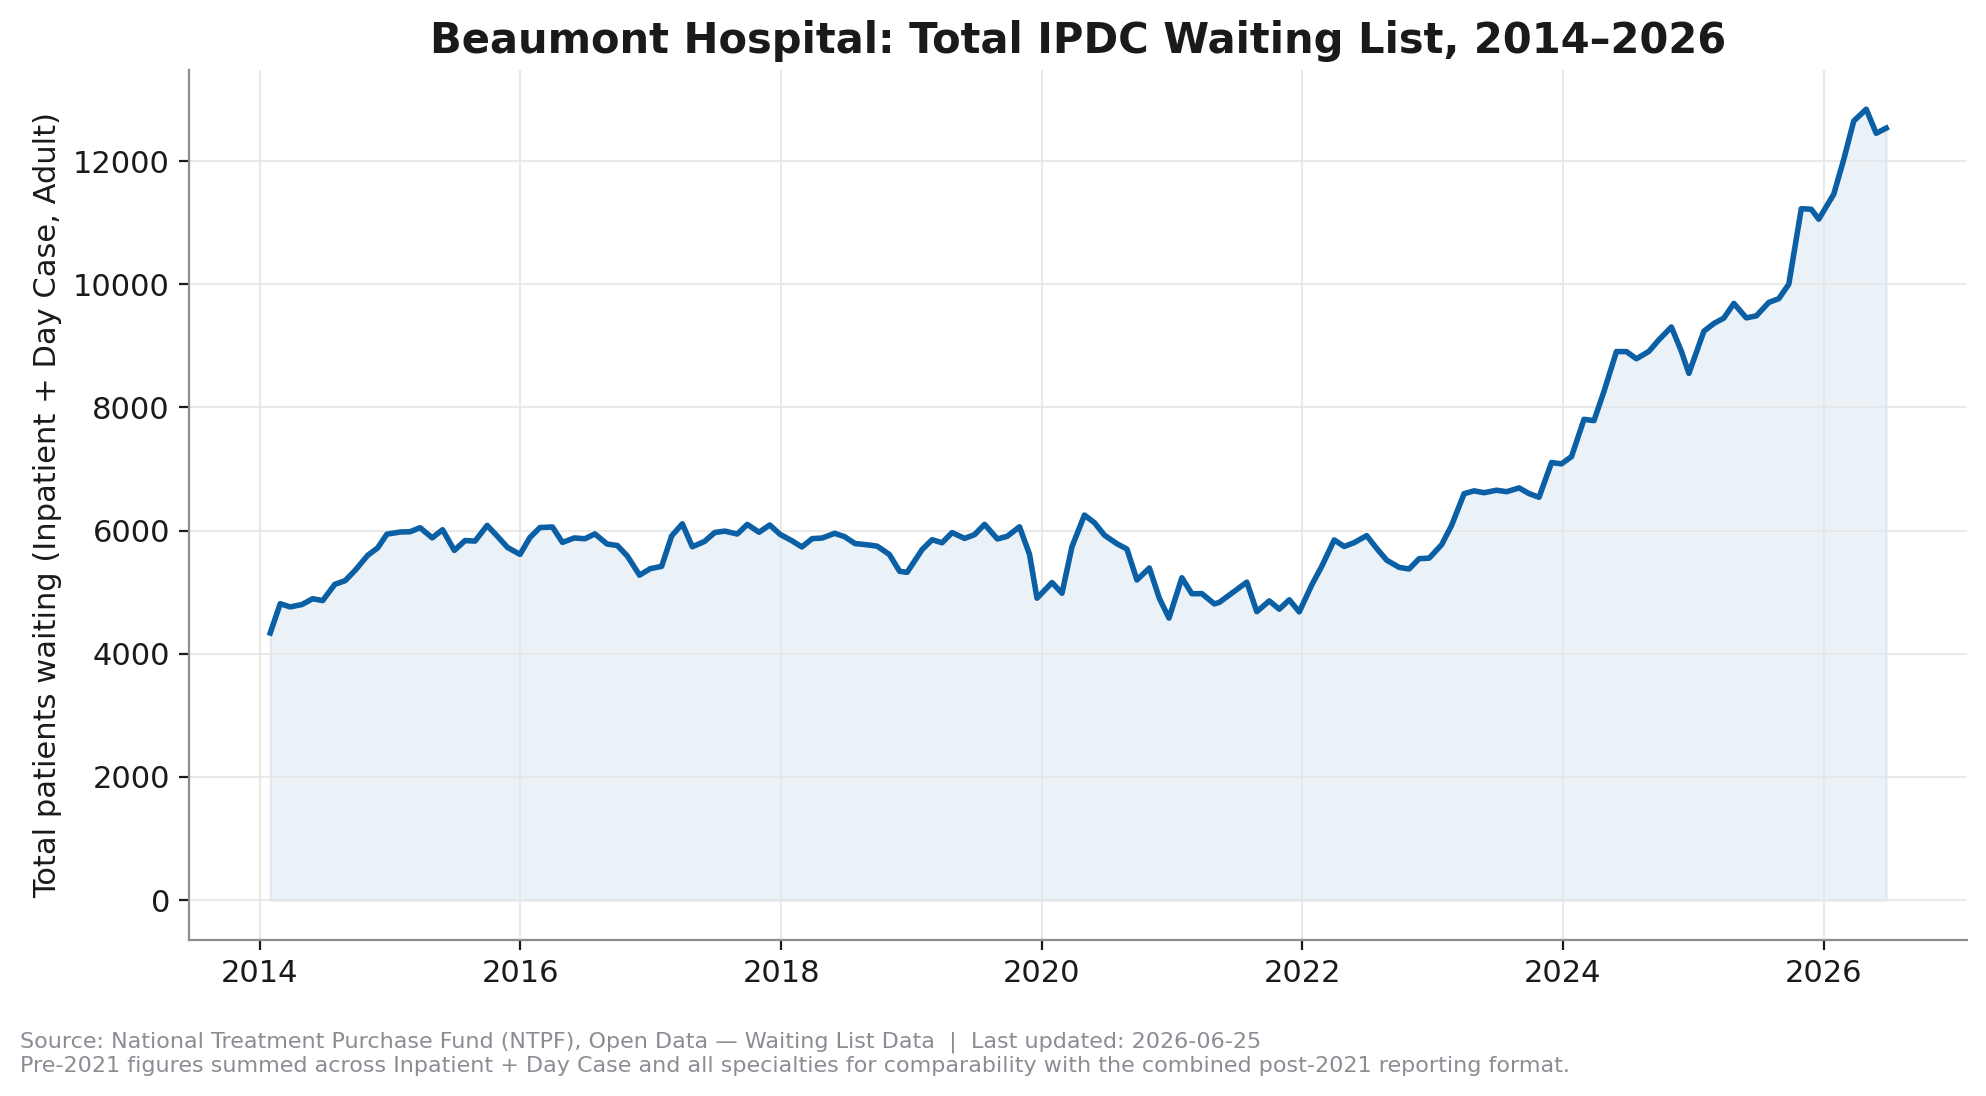
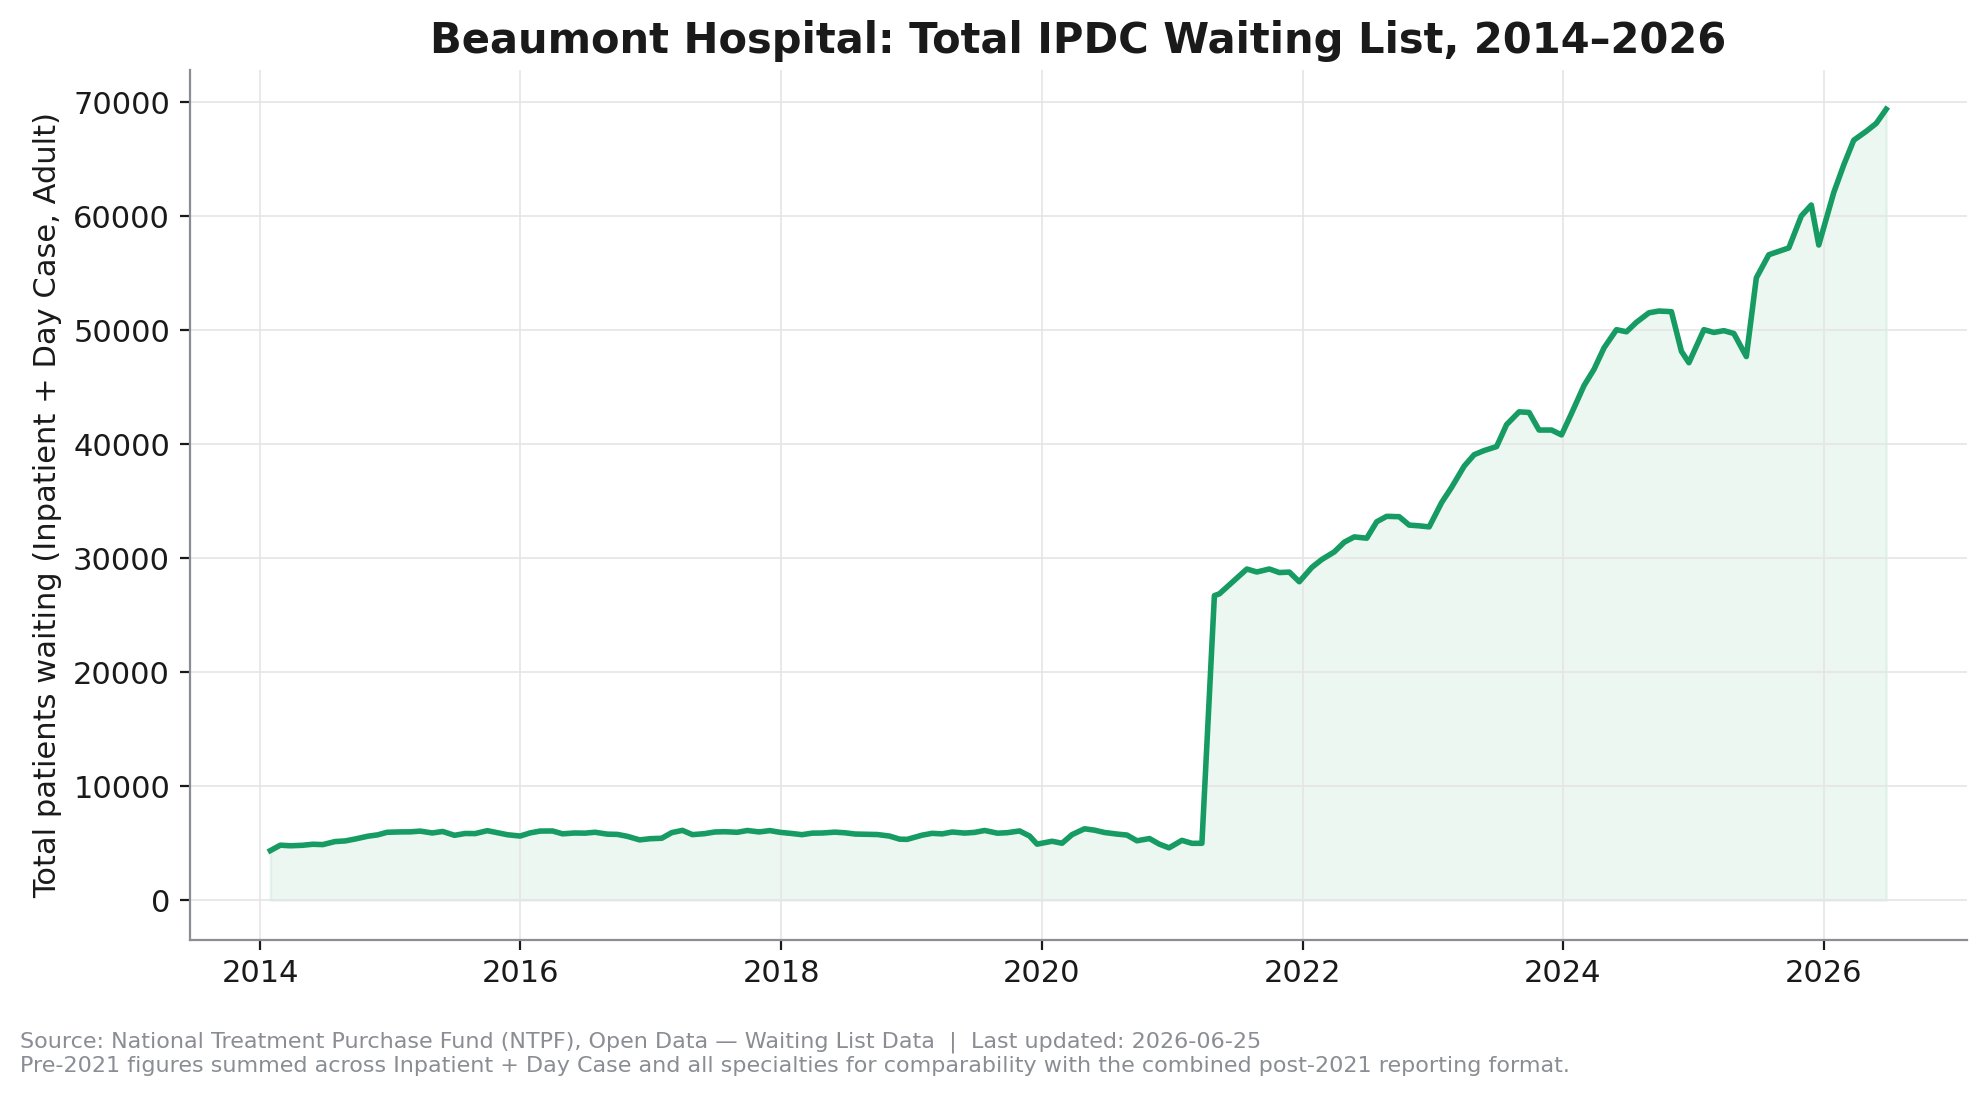
Decision 011: rebrand palette to Irish flag colors, traffic-light buckets
New brand palette: Irish flag green (#169B62) as primary (replacing the
old blue everywhere it's used — single-line trend charts, chart lines,
site metadata), black text, white backgrounds, Irish flag orange
(#FF883E) reserved as a one-off accent for the logo only — deliberately
kept out of PALETTE/BUCKET_COLORS so it can never end up on a data series.

The three wait-length buckets move from an arbitrary palette-index
assignment to a semantic traffic-light scheme: Under 6 = green, 6-12 =
amber (#EF9F27), 12+ = the existing coral (#D9541F, kept — it already
read well against the new primary). Centralised BUCKET_COLORS into
charts/style.py as a named constant during this change: it was previously
defined identically in both hospital_band_breakdown.py and
national_specialty_trend.py, built from PALETTE indices — same silent-
drift risk wait_time_buckets.py already closed for bucket classification,
now closed for bucket color too. site/src/lib/theme.ts mirrors style.py
as before. PALETTE[2] changed from #2E8B57 to #2C6E8C since the old
sea-green sat uncomfortably close to the new green primary.

Verified before committing: regenerated 3 PNGs (hospital_trend,
hospital_band_breakdown, national_specialty_trend) and visually inspected
— good contrast, no clashing. Confirmed via the compiled Next.js bundle
that the new green shipped to the dashboard and the old blue is gone.

Full reasoning, including the known colorblind-accessibility limitation
[…]

diff --git a/site/src/lib/theme.ts b/site/src/lib/theme.ts
@@ -2,14 +2,26 @@
 // static matplotlib charts never visually diverge on hospital data. If a
 // color changes here, it should change there too (and vice versa).
 
-export const COLOR_PRIMARY = "#0B5FA5";
+// Brand palette per Decision 011: Irish flag green as primary, the
+// existing coral kept for the "12+ Months" bucket (verified it still reads
+// well against the new primary). PALETTE[2] changed from the old
+// "#2E8B57" (sea green) to avoid sitting right next to the new green
+// COLOR_PRIMARY in any future multi-series chart.
+export const COLOR_PRIMARY = "#169B62";
 export const COLOR_SECONDARY = "#D9541F";
 export const COLOR_MUTED = "#8A8D93";
-export const PALETTE = ["#0B5FA5", "#D9541F", "#2E8B57", "#7B4FA0", "#C9A227"];
+export const PALETTE = ["#169B62", "#D9541F", "#2C6E8C", "#7B4FA0", "#C9A227"];
 
-// Matches BUCKET_COLORS in charts/hospital_band_breakdown.py
+// Irish flag orange — a one-off brand accent for the logo/wordmark only.
+// Deliberately NOT part of PALETTE or BUCKET_COLORS: chart data should
+// never use it, so it can't be confused with a data series.
+export const COLOR_ACCENT = "#FF883E";
+
+// Semantic traffic-light scheme (Decision 011) for the three wait-length
+// buckets — replaces the old arbitrary PALETTE-index assignment. Matches
+// BUCKET_COLORS in charts/style.py.
 export const BUCKET_COLORS: Record<string, string> = {
-  "Under 6 Months": PALETTE[0],
-  "6-12 Months": PALETTE[4],
-  "12+ Months": PALETTE[1],
+  "Under 6 Months": COLOR_PRIMARY, // green
+  "6-12 Months": "#EF9F27",        // amber
+  "12+ Months": COLOR_SECONDARY,   // coral/red
 };

diff --git a/site/src/app/page.tsx b/site/src/app/page.tsx
@@ -5,7 +5,7 @@ export default function Home() {
     <div className="flex flex-1 items-center justify-center bg-zinc-50 px-6">
       <div className="max-w-xl text-center">
         <h1 className="text-3xl font-semibold tracking-tight text-zinc-900">
-          IrishHealthData.com
+          Ireland in Data
         </h1>
         <p className="mt-4 text-lg leading-8 text-zinc-600">
           An open, evidence-based, reproducible digital observatory of the

diff --git a/site/src/app/layout.tsx b/site/src/app/layout.tsx
@@ -2,7 +2,7 @@ import type { Metadata } from "next";
 import "./globals.css";
 
 export const metadata: Metadata = {
-  title: "IrishHealthData.com",
+  title: "Ireland in Data",
   description:
     "An open, evidence-based, reproducible digital observatory of the Irish healthcare system.",
 };

diff --git a/charts/style.py b/charts/style.py
@@ -1,5 +1,6 @@
 """
-Week 7: Charting standards for IrishHealthData.com.
+Week 7 (rebranded Decision 011, 2026-08-13): Charting standards for
+Ireland in Data.
 
 Every chart on the site must call apply_style() and finish_chart() so that
 fonts, colours, and the source/methodology footer are consistent everywhere
@@ -11,13 +12,33 @@ import matplotlib.pyplot as plt
 import matplotlib.font_manager as fm
 
 # --- Palette ---
-# Chosen for clarity on both screen and print, colourblind-safe ordering.
-COLOR_PRIMARY = "#0B5FA5"      # main data series
-COLOR_SECONDARY = "#D9541F"    # comparison/second series
+# Brand palette per Decision 011: Irish flag green as primary, the existing
+# coral kept for the "12+ Months" bucket (verified it still reads well
+# against the new primary — see the regenerated PNGs checked in alongside
+# that decision), colourblind-safe ordering maintained.
+COLOR_PRIMARY = "#169B62"      # Irish flag green — main data series
+COLOR_SECONDARY = "#D9541F"    # coral — comparison/second series, kept from the old palette
 COLOR_MUTED = "#8A8D93"        # gridlines, annotations
 COLOR_BACKGROUND = "#FFFFFF"
 COLOR_TEXT = "#1A1A1A"
-PALETTE = [COLOR_PRIMARY, COLOR_SECONDARY, "#2E8B57", "#7B4FA0", "#C9A227"]
+# PALETTE[2] changed from the old "#2E8B57" (sea green) to avoid sitting
+# right next to the new green COLOR_PRIMARY in any future multi-series
+# chart — everything else unchanged.
+PALETTE = [COLOR_PRIMARY, COLOR_SECONDARY, "#2C6E8C", "#7B4FA0", "#C9A227"]
+
+# Semantic traffic-light scheme (Decision 011) for the three wait-length
+# buckets used across every chart that shows Under 6 / 6-12 / 12+ Months
+# (see wait_time_buckets.py) — replaces the old arbitrary PALETTE-index
+# assignment. Green/amber/red map directly onto "on track / moderate wait /
+# long wait worth flagging", which needs no legend-reading to interpret.
+# Single source of truth: hospital_band_breakdown.py and
+# national_specialty_trend.py import this directly rather than each
+# defining their own copy.
+BUCKET_COLORS = {
+    "Under 6 Months": COLOR_PRIMARY,   # green
+    "6-12 Months": "#EF9F27",          # amber
+    "12+ Months": COLOR_SECONDARY,     # coral/red
+}
 
 FONT_FAMILY = "DejaVu Sans"  # widely available; swap for a licensed brand font later if desired
 

diff --git a/charts/hospital_band_breakdown.py b/charts/hospital_band_breakdown.py
@@ -34,18 +34,12 @@ import pandas as pd
 
 sys.path.insert(0, str(Path(__file__).resolve().parent))
 sys.path.insert(0, str(Path(__file__).resolve().parents[1] / "etl"))
-from style import apply_style, finish_chart, PALETTE
+from style import apply_style, finish_chart, BUCKET_COLORS
 from wait_time_buckets import BUCKET_ORDER, classify_band, slugify_hospital_name
 
 REPO_ROOT = Path(__file__).resolve().parents[1]
 DB_PATH = REPO_ROOT / "data" / "processed" / "irishhealthdata.duckdb"
 OUTPUT_DIR = REPO_ROOT / "site" / "charts"
-
-BUCKET_COLORS = {
-    "Under 6 Months": PALETTE[0],
-    "6-12 Months": PALETTE[4],
-    "12+ Months": PALETTE[1],
-}
 
 
 def get_band_breakdown(con: duckdb.DuckDBPyConnection, hospital_name: str) -> pd.DataFrame:

diff --git a/charts/national_specialty_trend.py b/charts/national_specialty_trend.py
@@ -29,14 +29,13 @@ import matplotlib.pyplot as plt
 import pandas as pd
 
 sys.path.insert(0, str(Path(__file__).resolve().parent))
-from style import apply_style, finish_chart, PALETTE
+from style import apply_style, finish_chart, BUCKET_COLORS
 
 REPO_ROOT = Path(__file__).resolve().parents[1]
 DB_PATH = REPO_ROOT / "data" / "processed" / "irishhealthdata.duckdb"
 OUTPUT_DIR = REPO_ROOT / "site" / "charts"
 
 BUCKET_ORDER = ["Under 6 Months", "6-12 Months", "12+ Months"]
-BUCKET_COLORS = {"Under 6 Months": PALETTE[0], "6-12 Months": PALETTE[4], "12+ Months": PALETTE[1]}
 
 
 def classify_band(time_band: str) -> str:

diff --git a/docs/technical-design-document.md b/docs/technical-design-document.md
@@ -1,6 +1,7 @@
-# IrishHealthData.com — Technical Design Document
-**Version:** 0.6 (draft) | **Status:** Living document | **Owner:** Plunkett McCullagh
+# Ireland in Data (irelandindata.ie) — Technical Design Document
+**Version:** 0.8 (draft) | **Status:** Living document | **Owner:** Plunkett McCullagh
 **Last updated:** 2026-08-13
+**Formerly:** IrishHealthData.com — renamed per Decision 010
 
 > This document is the single source of truth for what we're building, why, and how. Every major decision should be traceable here. If future-you can't reconstruct the reasoning in five minutes, this document has failed its purpose.
 
@@ -62,7 +63,7 @@ These are Design Philosophy made enforceable — rules a future contributor (inc
 
 ### 2b. Non-goals
 
-Being explicit about what this project will *not* do protects focus and credibility. IrishHealthData.com is **not**:
+Being explicit about what this project will *not* do protects focus and credibility. Ireland in Data is **not**:
 
 - another news website
 - another health blog or opinion outlet
@@ -228,6 +229,18 @@ Evidence from the Week 5 ETL prototype (NTPF IPDC Waiting List by Hospital, run 
 
 ---
 
+**Decision 007 — Time-band boundaries not reconciled across formats**
+
+Context: NTPF's waiting-time bands changed at the same April 2021 boundary as other format changes: 2022+ files use 0-6/6-12/12-18/18+ months, while pre-2021 files use 0-3/3-6/6-9/9-12/12+ months. No single set of bands covers the full 2014-2026 range at native granularity.
+
+Decision: Rather than force-fitting one scheme onto the other (which would either fabricate precision the older data doesn't have, or throw away real precision the older data does have), charts spanning the full range use three coarser, genuinely comparable buckets — Under 6 / 6-12 / 12+ months — built from each band's starting month (see charts/hospital_band_breakdown.py and etl/wait_time_buckets.py). Finer-grained bands remain available for pre-2021-only analysis.
+
+Known limitation, not fully resolved: this means the Sláintecare-relevant 12-week (~3 month) target line can't be precisely reconstructed for 2022+ data — the finest available band starts at 0-6 months, straddling the target. Confirmed NTPF's own "IPDC Waiting List Adult & Child Analysis" file doesn't add finer bands either (2026-08-13 investigation) — it restores a Case_Type split, not band granularity.
+
+*Future Me Test:* Revisit if NTPF ever republishes finer bands for recent years, or if a future dataset (e.g. the interactive Sláintecare target dashboard) turns out to be independently downloadable.
+
+---
+
 **Decision 008 — Hosting platform: Vercel**
 
 Context: raised 2026-08-12, working through backup/single-point-of-failure risk. Source code and raw data are already safe (pushed to GitHub, and raw data is independently re-downloadable from NTPF as a third fallback). The local DuckDB database is deliberately unbacked-up — it's fully regenerable from the archived raw files in minutes, per the Data is immutable / Everything is code principles, so it isn't treated as data at risk. The real open question was the *live public website*: GitHub hosts source, not a running site, and a laptop-only deployment would be both a single point of failure and inaccessible to other people.
@@ -265,6 +278,36 @@ Decision: **(b)**. Extends `build_warehouse_schema.py` to tag every row with `li
 Consequences: the dashboard (site/) gained a second toggle (IPDC / Outpatient) alongside the existing Adult/Child toggle, applied to the national totals, national specialty breakdown, and per-hospital drill-down alike, reusing the same chart components and the same `wait_time_buckets.py` bucketing logic — no new chart types, no new bucket scheme, just a new filter dimension threaded through the existing pipeline. National OP total (600,727, Adult, 2026-06-25) is roughly 5.5x national IPDC (108,187) at the same date — consistent with outpatient waiting lists being much larger than inpatient/day-case ones, and a useful order-of-magnitude sanity check for anyone extending this further.
 
 *Future Me Test:* If NTPF ever adds a column distinguishing the two OP-by-Speciality sub-populations (or if the New/Review inference turns out to be wrong), revisit `normalise_national_speciality()`'s dedupe_sum step — it currently sums blind to what the two rows actually represent, which is the right conservative choice only as long as that distinction stays genuinely unavailable in the source data.
+
+---
+
+**Decision 010 — Rebrand to Ireland in Data / irelandindata.ie**
+
+Context: raised 2026-08-13. "IrishHealthData.com" was chosen on Day 1, alongside a flagged naming collision with the government's own HealthData@IE initiative. A broader, more brandable name was considered as an alternative.
+
+Decision: Rebrand to "Ireland in Data" (irelandindata.ie). Deliberately broader than the project's current scope — chosen to leave room for the platform to eventually cover non-health Irish public data, without requiring a future rebrand, while the government-initiative naming collision is also avoided as a side benefit.
+
+Explicitly NOT a scope change today: Volume I's Mission Statement and Non-goals (Section 2b) remain healthcare-focused and unchanged. This decision is about the name only. If and when the project actually expands beyond health, that expansion needs its own decision entry updating the Vision — a broader name existing is not itself authorization to broaden scope.
+
+Consequences: requires updating the domain (Vercel), repo README/site branding, and the TDD title. GitHub repo name (irishhealthdata) can stay as-is — GitHub auto-redirects renamed repos, and renaming is optional, low-value churn today.
+
+*Future Me Test:* If the project is still healthcare-only in two years, ask whether the broader name ever actually got used for its intended purpose, or whether it just added a layer of naming indirection for no real benefit.
+
+---
+
+**Decision 011 — Rebrand the color palette to Irish flag colors; traffic-light wait-band colors**
+
+Context: raised 2026-08-13, alongside Decision 010's naming rebrand. The original chart/site palette (blue primary, arbitrary palette-index colors for the three wait-length buckets) had no connection to Ireland and no intuitive meaning — a reader had to check the legend every time to know whether a color meant a short or long wait.
+
+Decision: New brand palette — Irish flag green (`#169B62`) as primary, black text, white backgrounds, Irish flag orange (`#FF883E`) as a one-off brand accent reserved for the logo/wordmark only (deliberately excluded from `PALETTE` and `BUCKET_COLORS` so it can never end up representing a data series by accident). The three wait-length buckets move from an arbitrary palette-index assignment to a semantic traffic-light scheme: Under 6 Months = green, 6-12 Months = amber (`#EF9F27`), 12+ Months = red/coral (`#D9541F`, kept unchanged from the old palette — it already read well against the new primary, no reason to change a color that wasn't broken). Green/amber/red needs no legend-reading: it maps directly onto "on track / moderate wait / long wait worth flagging," the same interpretation a reader already brings from traffic lights, so it actively communicates rather than just decorates.
+
+Implementation note: `BUCKET_COLORS` was previously defined locally (and identically) inside both `charts/hospital_band_breakdown.py` and `charts/national_specialty_trend.py`, built from `PALETTE` indices. Centralised into `charts/style.py` as a named constant during this change — the two chart scripts now import it directly rather than each keeping their own copy, closing off the same kind of silent-drift risk that `wait_time_buckets.py` closed off for bucket *classification* earlier. `site/src/lib/theme.ts` mirrors `charts/style.py` exactly, as before. `PALETTE[2]` (the third general-purpose palette color, for any future multi-series chart) was changed from the old `#2E8B57` to `#2C6E8C`, since the old value was a sea-green sitting uncomfortably close to the new green primary — a direct, minor knock-on fix caused by the primary color change, not a separate design decision.
+
+Known limitation, not fully resolved: a green/amber/red traffic-light scheme is a well-known problem for readers with red-green color blindness (protanopia/deuteranopia), who may struggle to distinguish the "on track" and "long wait" lines by color alone. Accepted here because the traffic-light metaphor's legend-free readability for the majority of readers was judged to outweigh this, and because line labels/legends remain present on every chart regardless (color is reinforcing, not the only signal) — but worth revisiting if this becomes a real accessibility complaint rather than a theoretical one.
+
+Verified before committing: regenerated `hospital_trend.py` (Beaumont Hospital), `hospital_band_breakdown.py` (Beaumont Hospital), and `national_specialty_trend.py` (Orthopaedics) and visually inspected all three PNGs — good contrast against white, no clashing between the three bucket colors, green primary reads cleanly on the single-line trend chart. Confirmed via the compiled Next.js bundle that the new green shipped to the dashboard's client-side chart code and the old blue is completely gone from it.
+
+*Future Me Test:* If a colorblind-accessibility complaint ever comes in about the traffic-light bucket colors, revisit with a colorblind-safe alternative encoding (e.g. line style/dash pattern in addition to color) rather than dropping the traffic-light semantics entirely — the meaning is worth keeping, the pure-color-only encoding is the part that would need to change.
 
 ### 8. Deferred sections *(intentionally not written yet)*
 

diff --git a/README.md b/README.md
@@ -1,4 +1,8 @@
-# IrishHealthData.com
+# Ireland in Data (irelandindata.ie)
+
+Formerly IrishHealthData.com — renamed per Decision 010 in the Technical
+Design Document (name change only; current scope remains the Irish
+healthcare system, see the TDD's Non-goals section).
 
 Open, reproducible, evidence-based digital observatory of the Irish healthcare system.
 
@@ -18,7 +22,7 @@ data/processed/  - DuckDB database and derived tables
 etl/             - Extract-Transform-Load scripts, one per dataset
 etl/schema/      - Metadata JSON Schema — no dataset ships without passing this
 docs/            - Technical Design Document, metadata records, LICENSING.md
-site/            - Next.js frontend (not yet scaffolded)
+site/            - Next.js frontend (dashboard live at irelandindata.ie)
 ```
 
 ## Running the first ETL pipeline
